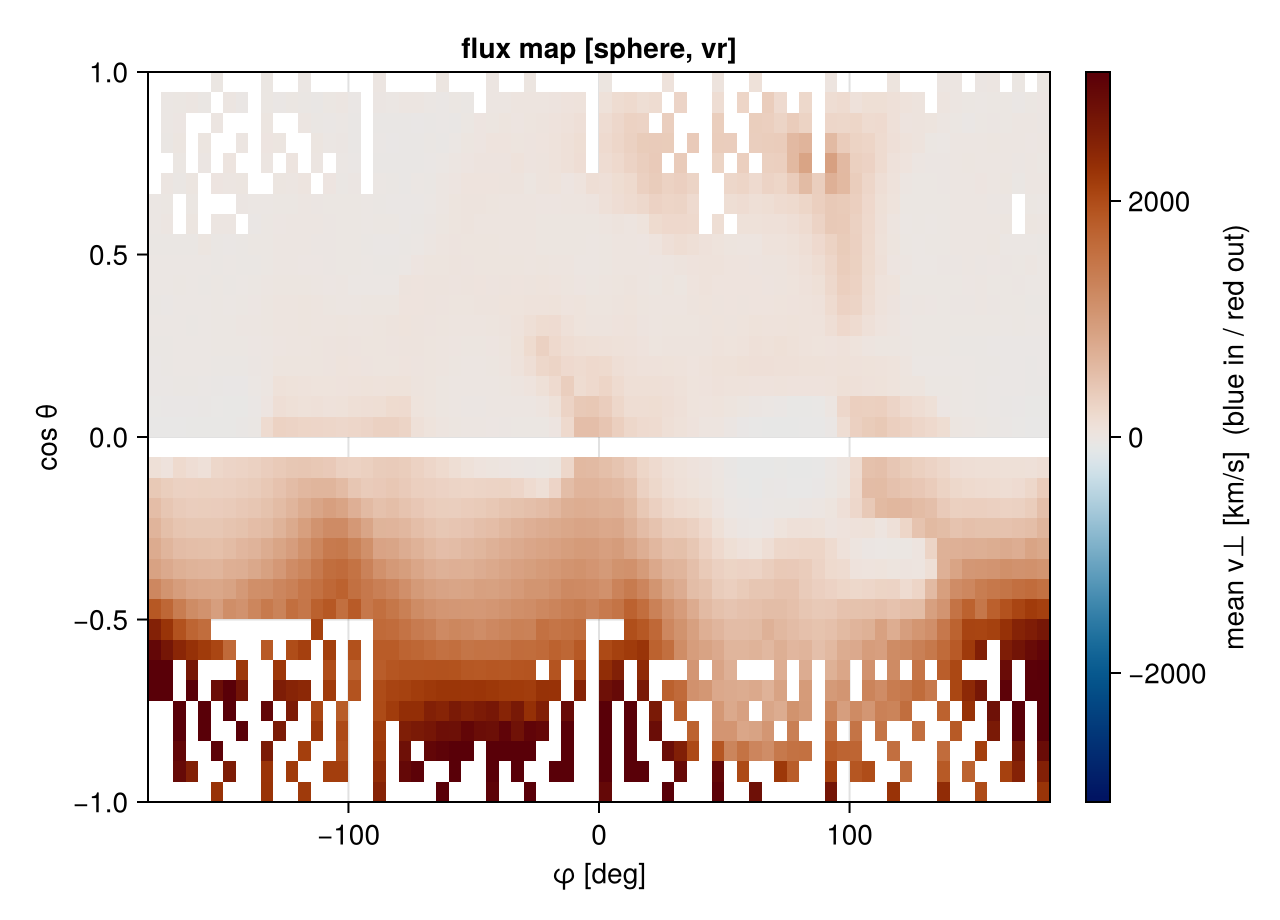
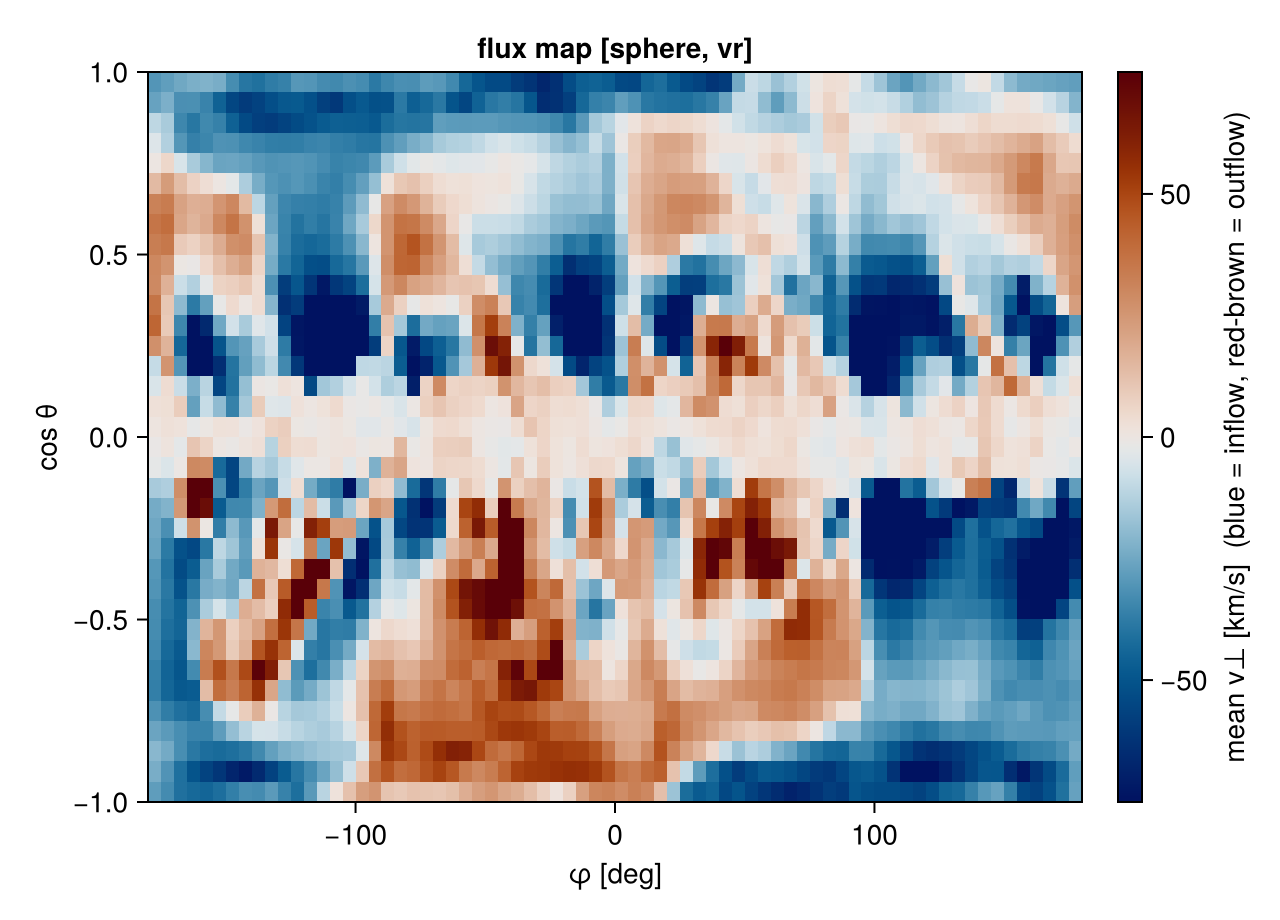
docs(flux): fix the 'strange' fluxmap + add a figure per functionality — regenerate on a star-forming disk (mw_L10) with real flux physics: fluxprofile (Ṁ in/out/net vs R), fluxmap (clear blue-in/red-out sky pattern), NEW fluxshell (measured sphere vs full gas edge-on); fluxmapplot clip kwarg (defau

diff --git a/docs/src/fluxbudget.md b/docs/src/fluxbudget.md
@@ -118,6 +118,11 @@ projection(sh, :vr_sphere, :km_s; center=[:bc])       # inflow (blue) / outflow 
 # combine with a Makie backend to render the maps, or feed sh to profile/phase
 ```
 
+![`fluxshell` makes the measured surface explicit. *Left:* the full gas of a disk galaxy, edge-on.
+*Right:* the cells `fluxbudget` actually integrates over — the R = 10 kpc spherical shell (its edge-on
+projection is a disk of radius 10 kpc, brightest where the shell cuts the dense midplane). The budget is
+the flux of gas crossing exactly this surface.](assets/features/fluxshell.png)
+
 `fluxshell` and `fluxbudget` use the identical selection, so the visualization is guaranteed to show
 exactly the cells that entered the budget. `fluxshell` and `fluxmap` accept the same `axis`/`:angmom`
 and `surface=:plane` options as `fluxbudget`, so off-axis surfaces can be visualized too (the tilted
@@ -143,11 +148,14 @@ sum(fmd.map)  # == fluxbudget(...).rates.mass.net   — the surface map closes t
 maps each bin's mass-flux contribution (Msol/yr), and its sum equals the net flux. `fluxmap` returns the
 arrays; it is *not* `projection` — different axes, no LOS superposition.
 
-![Inflow/outflow surface map of a spherical shell at R = 12 kpc (`fluxmap`, `quantity=:vr`): the
-mass-weighted mean radial velocity over the (φ, cos θ) sky — blue is inflow, red outflow.](assets/features/fluxmap_skymap.png)
+![Inflow/outflow surface map of a spherical shell at R = 10 kpc around a disk galaxy (`fluxmap`,
+`quantity=:vr`): the mass-weighted mean radial velocity over the (φ, cos θ) sky — blue is inflow,
+red-brown is outflow. The patchy fountain (mixed in/out at every latitude) is the genuine angular
+structure that a sum-into-a-single-number budget hides.](assets/features/fluxmap_skymap.png)
 
-With a Makie backend loaded, [`fluxmapplot`](@ref) renders it directly (diverging blue-in/red-out
-colormap for `:vr`):
+With a Makie backend loaded, [`fluxmapplot`](@ref) renders it directly (perceptually-uniform diverging
+`:vik`, blue-in/red-out, symmetric range clipped at the `clip` percentile — default 0.95 — so a few
+extreme cells don't wash out the contrast):
 
 ```julia
 using CairoMakie
